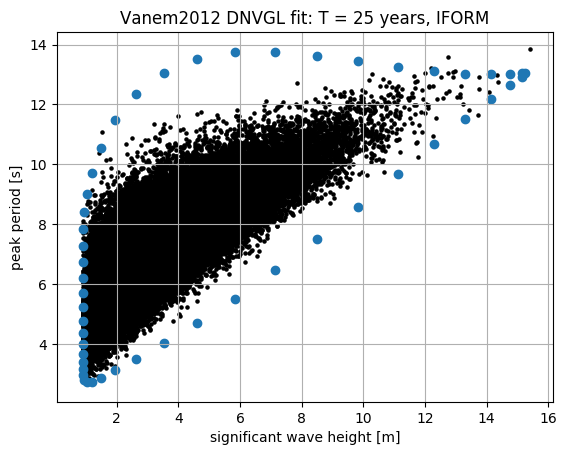
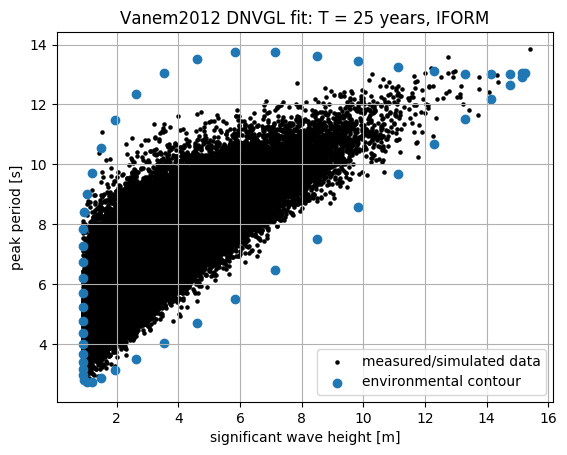
fix issue #3 i.e. plot data with contour (only for 2-d data, for >2 dimensions clarity would suffer)

Changed region(s): [[0.6296, 0.7692, 0.9594, 0.8615], [0.5697, 0.8308, 0.5996, 0.8615]]

diff --git a/enviro/plot.py b/enviro/plot.py
@@ -267,11 +267,12 @@ def plot_contour(matrix, user, method, probabilistic_model, var_names, var_symbo
         data_path = probabilistic_model.measure_file_model.measure_file.url
         data_path = data_path[1:]
         data = pd.read_csv(data_path, sep=';', header=1).as_matrix()
-        ax.scatter(data[:,0], data[:,1], s=5 ,c='k')
+        ax.scatter(data[:,0], data[:,1], s=5 ,c='k', label='measured/simulated data')
 
         # plot contour
-        ax.scatter(matrix[0][0], matrix[0][1])
+        ax.scatter(matrix[0][0], matrix[0][1], label='environmental contour')
 
+        plt.legend(loc='lower right')
         plt.xlabel('{}'.format(var_names[0]))
         plt.ylabel('{}'.format(var_names[1]))
     elif len(matrix[0]) == 3:
